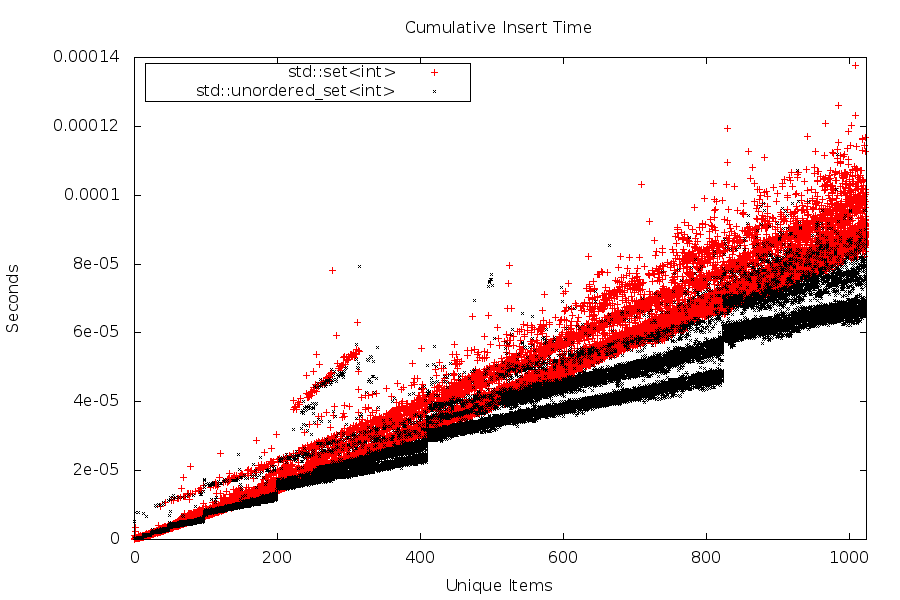
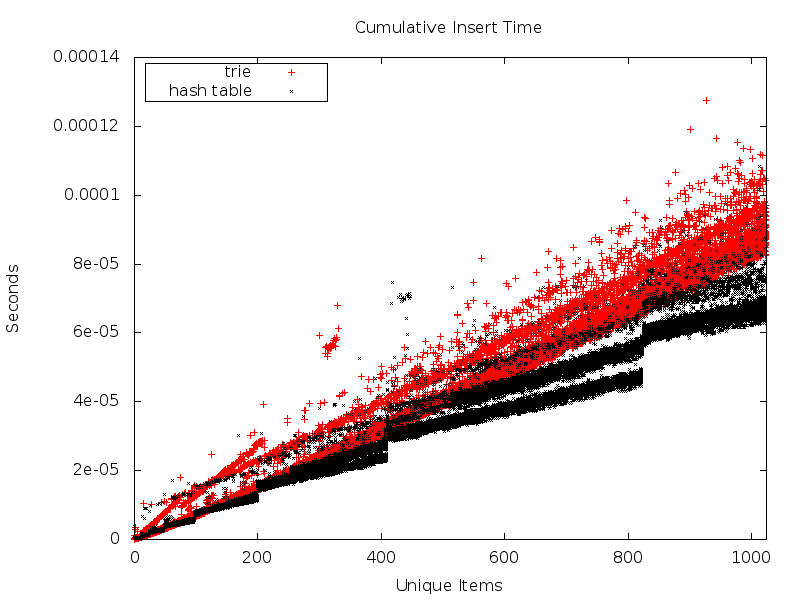
resize and rename plot, and explain that tries are slower

diff --git a/README.md b/README.md
@@ -5,4 +5,5 @@ Hash tables are usually very fast, but have some very slow operations when there
 
 ![](insert-cumulative.png "Cumulative Insert Times")
 
-The discontinuities in the `std::unordered_set` times are artifacts of rehashing.
+The discontinuities in the hash table times are artifacts of rehashing.
+The trie is a little bit slower, but it is more consistent.
